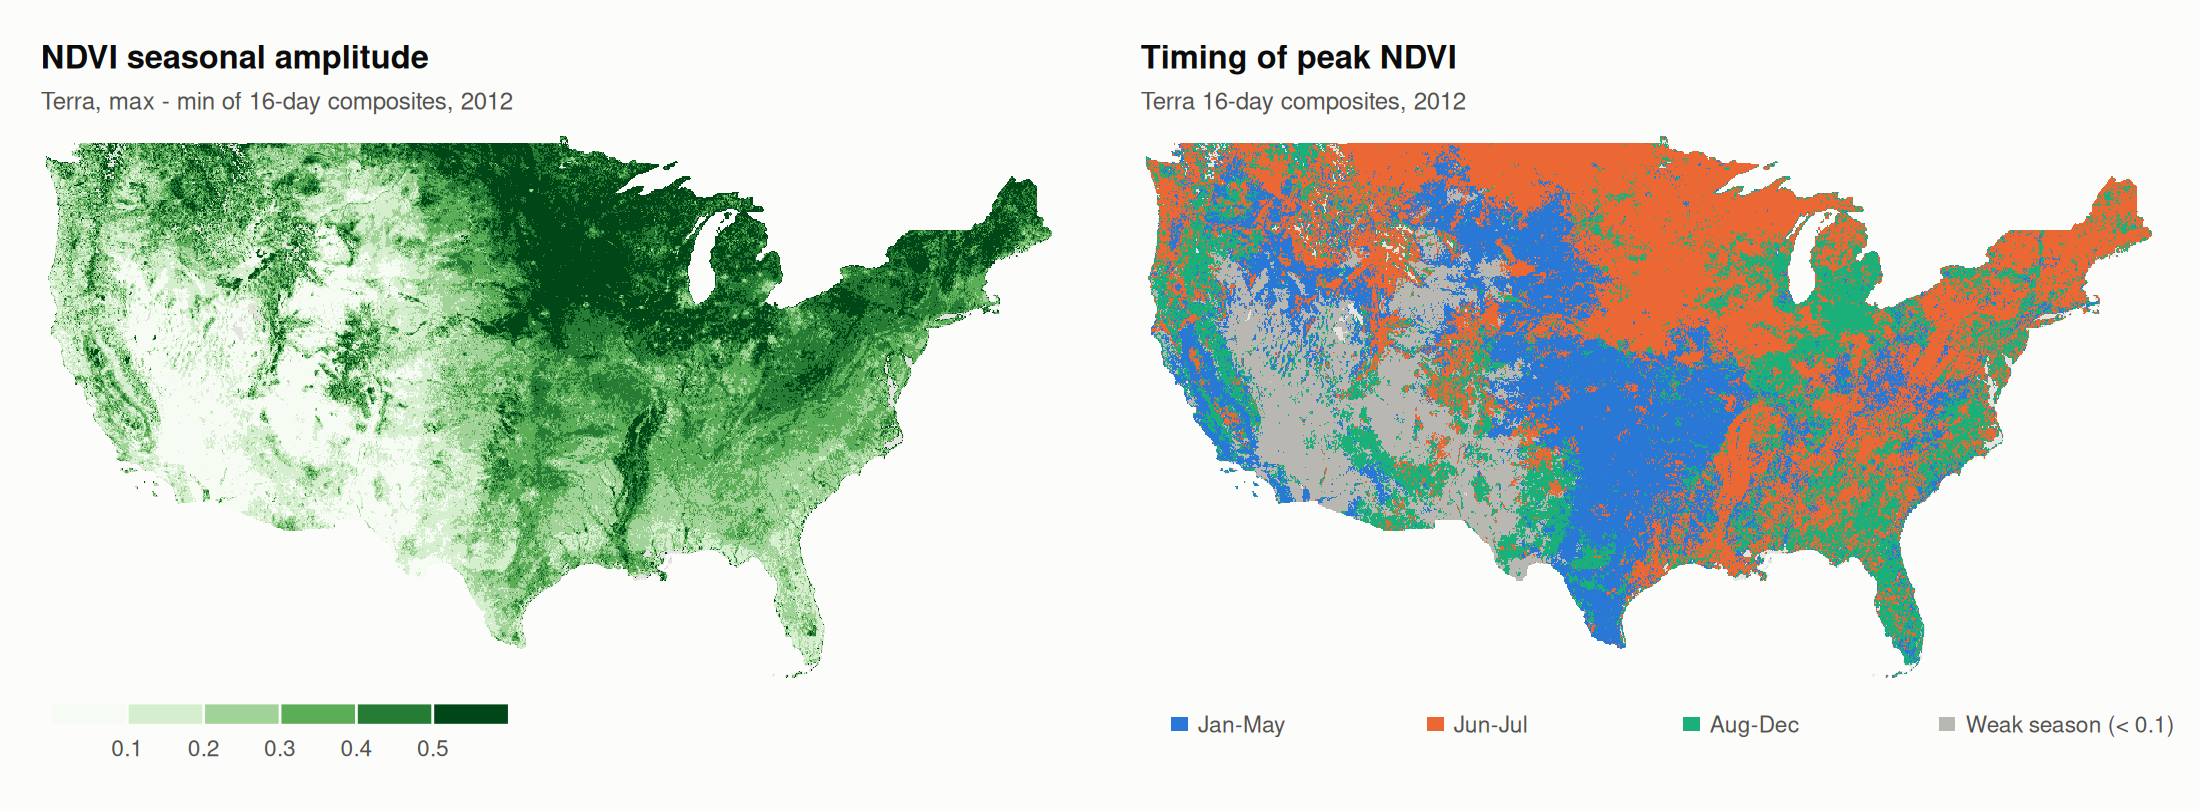
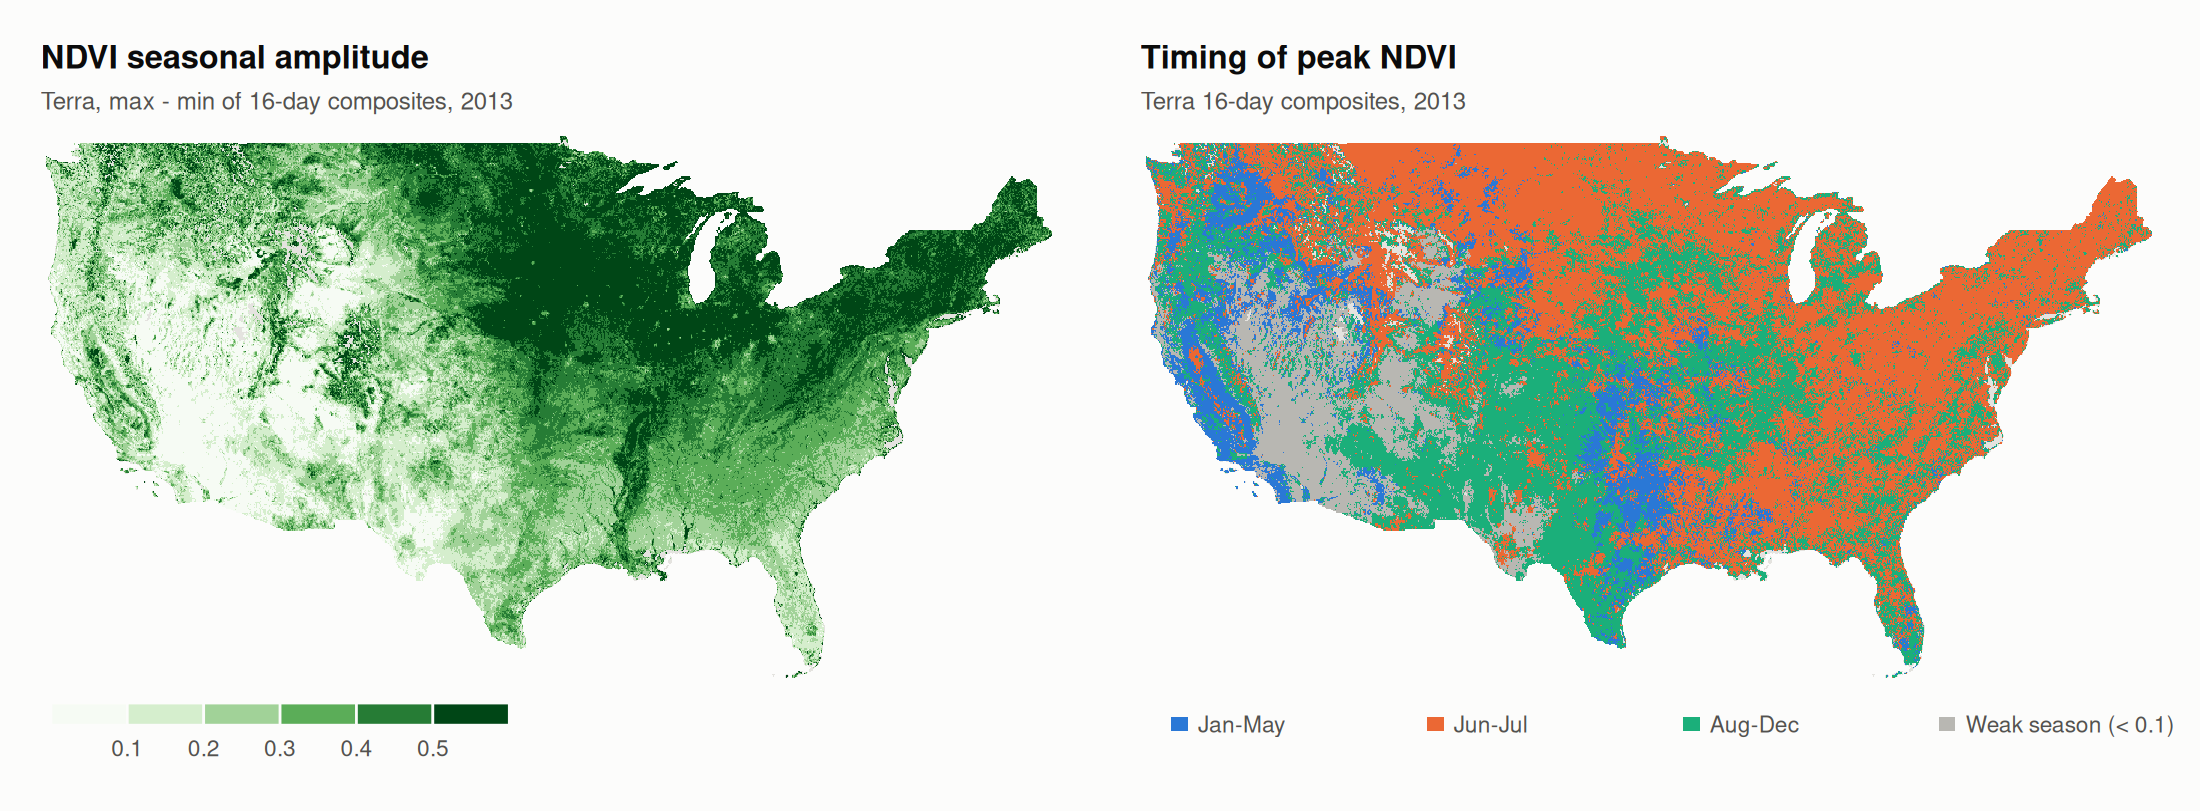
Project page, report figures, P720 sync/render/publish; CONUS Block 1 figures

Changed region(s): [[0.0, 0.1541, 0.4945, 0.8015], [0.5255, 0.1541, 0.9891, 0.8015], [0.7418, 0.185, 0.7727, 0.2158]]

diff --git a/CLAUDE.md b/CLAUDE.md
@@ -175,8 +175,10 @@ Deferred: fire data, gridMET, ERA5-Land.
 `report/index.qmd` is a living Quarto page for the project team and Mike's website: what
 the project is, decisions, open questions, status, changelog and preliminary figures. It
 renders to one self-contained HTML (`quarto render report/index.qmd`; HTML is git-ignored).
-Figures come from `scripts/90_report_figs.R [profile]`, which writes small PNGs to
-`report/figs/<figure>_<profile>.png` plus `manifest.csv` (committed); the page shows the
+Figures come from `scripts/90_report_figs.R [profile]`: dev writes small PNGs to
+`report/figs/<figure>_dev.png`; full writes to `<run_dir>/report_figs/` on the P720 (config
+`report: figs_in_run_dir`, keeps the P720 checkout clean) and 91 copies them to
+`report/figs/`. PNGs + `manifest.csv` are committed from the laptop only; the page shows the
 `full` version of a figure when present, else `dev`. Each figure skips if its inputs are
 missing. Sample points for Cut B curves: config `report: sample_points`. When a decision
 changes, also update the page's Decisions / Open questions / Status / Changelog sections.

diff --git a/report/README.md b/report/README.md
@@ -37,8 +37,11 @@ gsi_sync <- c("figs", "summaries"); source("scripts/91_sync_from_p720.R")  # + r
    type $env:USERPROFILE\.ssh\id_ed25519.pub | ssh user@p720-address "mkdir -p ~/.ssh && cat >> ~/.ssh/authorized_keys"
    ```
 
-Outputs are `report/figs/<figure>_<profile>.png` plus `report/figs/manifest.csv`
-(extent, years and date of each figure). PNGs are small and go in git. The page shows the
+Dev figures go to `report/figs/<figure>_dev.png`. CONUS (`full`) figures are written on
+the P720 next to the data (`<data_root>/full/report_figs/`), so the P720's git checkout
+stays clean, and `91_sync_from_p720.R` copies them into `report/figs/` on the laptop.
+`manifest.csv` records the extent, years and date of each figure. PNGs are small and are
+committed from the laptop only. The page shows the
 CONUS (`full`) version of a figure when it exists, otherwise the `dev` one.
 
 ## Sync, render and publish (laptop)
